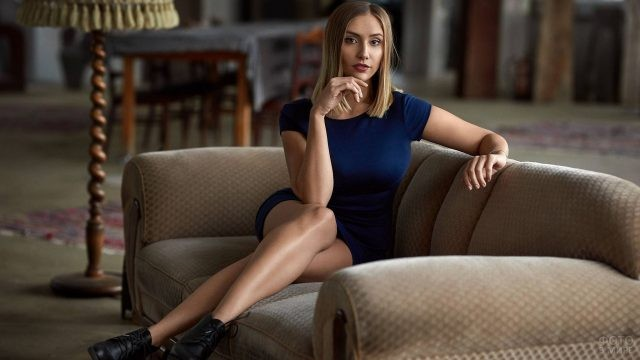
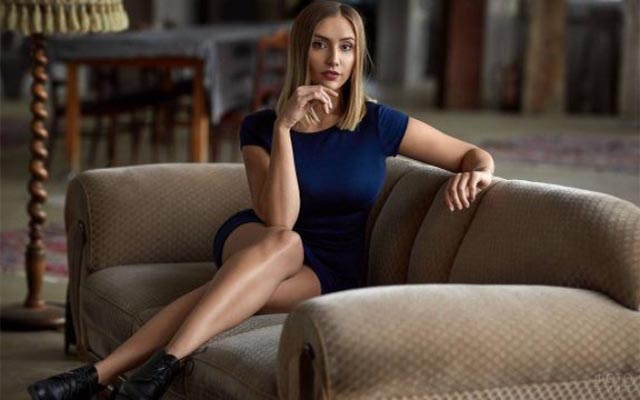
responsive mo

diff --git a/index.html b/index.html
@@ -277,16 +277,16 @@
     <div class="container">
         <div class="wrapper-swiper">
             <div class="row row-padding-0">
-                <div class="col-lg-6">
+                <div class="col-sm-6">
                     <div class="swiper feedback-slider">
                         <div class="swiper-wrapper">
-                            <div class="swiper-slide "><img class="img-fluid slider-user" src="int/img/slide/feedback_slide/feedback.png" alt=""/></div>
+                            <div class="swiper-slide "><img class="img-fluid slider-user" src="int/img/slide/feedback_slide/feedback.jpg" alt=""/></div>
                             <div class="swiper-slide "><img class="img-fluid slider-user" src="int/img/slide/feedback_slide/girl.jpg" alt=""/></div>
                             <div class="swiper-slide "><img class="img-fluid slider-user" src="int/img/slide/feedback_slide/devushka-sidit-v-gostinoj-na-divane-640x360.jpg" alt=""/></div>
                         </div>
                     </div>
                 </div>
-                <div class="col-lg-6">
+                <div class="col-sm-6">
                     <div thumbsSlider="" class="swiper in-feedback-slider">
                         <div class="swiper-wrapper">
                             <div class="swiper-slide">
@@ -784,10 +784,10 @@
 </section>
 <footer class="footer">
     <div class="container-sm">
-        <div class="row ">
-            <div class="col-6">
+        <div class="row">
+            <div class="col-md-6">
                 <div class="row">
-                    <div class="col">
+                    <div class="col-md">
                         <div class="footer-logo-group">
                             <img class="footer-logo" src="int/img/logo-footer.svg" alt="logo">
                             <p class="footer-text">Lorem Ipsum is simply dummy text of the printing and typesetting industry.</p>
@@ -798,7 +798,7 @@
                             </div>
                         </div>
                     </div>
-                    <div class="col-auto">
+                    <div class="col-md-auto">
                         <ul class="head-group-footer">
                             <li><span class="element-footer">Home</span></li>
                             <li><a href="">Booking</a></li>
@@ -809,9 +809,9 @@
                     </div>
                 </div>
             </div>
-            <div class="col-6">
+            <div class="col-md-6">
                 <div class="row">
-                    <div class="col">
+                    <div class="col-md">
                         <ul class="head-group-footer">
                             <li><span class="element-footer">Help</span></li>
                             <li><a href="">About Us</a></li>
@@ -820,7 +820,7 @@
                             <li><a href="">FAQs</a></li>
                         </ul>
                     </div>
-                    <div class="col-auto">
+                    <div class="col-lg-6 col-md-auto">
                         <ul class="head-group-footer">
                             <li><span class="element-footer">Get the app</span></li>
                             <li><a href="">iOS app</a></li>

diff --git a/int/css/common.css b/int/css/common.css
@@ -835,6 +835,9 @@ body {
   .intro-img-group {
     margin-bottom: 30px;
   }
+  .intro-img-group.feedback-title {
+    margin-bottom: 10px;
+  }
 }
 @media (max-width: 991.98px) {
   .header {
@@ -874,6 +877,29 @@ body {
   .update-group {
     text-align: center;
     padding-right: 0;
+  }
+
+  .swiper.in-intro-slider {
+    margin-top: 10px;
+  }
+  .swiper.in-intro-slider .swiper-wrapper {
+    flex-direction: row;
+  }
+
+  .section-feedback .in-feedback-slider .swiper-slide .feedback-group .feedback-mini {
+    line-height: 35px;
+    font-weight: 300;
+    font-size: 18px;
+  }
+  .section-feedback .in-feedback-slider .swiper-slide .feedback-group .feedback-title {
+    line-height: 32px;
+    font-weight: 400;
+    font-size: 18px;
+    margin-bottom: 10px;
+  }
+
+  .footer .head-group-footer {
+    padding: 20px;
   }
 }
 

diff --git a/int/css/responsive.sass b/int/css/responsive.sass
@@ -32,6 +32,9 @@
 	.intro-img-group
 		margin-bottom: 30px
 
+		&.feedback-title
+			margin-bottom: 10px
+
 @media (max-width: 991.98px)
 	.header
 		margin-bottom: 40px
@@ -68,3 +71,33 @@
 	.update-group
 		text-align: center
 		padding-right: 0
+
+	.swiper
+
+		&.in-intro-slider
+			margin-top: 10px
+
+			.swiper-wrapper
+				flex-direction: row
+	.section-feedback
+
+		.in-feedback-slider
+
+			.swiper-slide
+
+				.feedback-group
+
+					.feedback-mini
+						line-height: 35px
+						font-weight: 300
+						font-size: 18px
+
+					.feedback-title
+						line-height: 32px
+						font-weight: 400
+						font-size: 18px
+						margin-bottom: 10px
+
+	.footer
+		.head-group-footer
+			padding: 20px

diff --git a/int/js/common.js b/int/js/common.js
@@ -1,15 +1,26 @@
 // Swiper Intro start
 const slider = new Swiper(".in-intro-slider", {
     loop: true,
-    spaceBetween: 24,
+    spaceBetween: 10,
     slidesPerView: 2,
     freeMode: true,
     watchSlidesProgress: true,
-    direction: "vertical",
+    direction: "horizontal",
+    breakpoints: {
+        0: {
+            slidesPerView: 2,
+        },
+        768: {
+            slidesPerView: 3,
+        },
+        992: {
+            direction: "vertical",
+            spaceBetween: 24,
+        },
+    }
 });
 
 const intro = new Swiper(".intro-slider", {
-    loop: true,
     spaceBetween: 24,
     thumbs: {
         swiper: slider,
